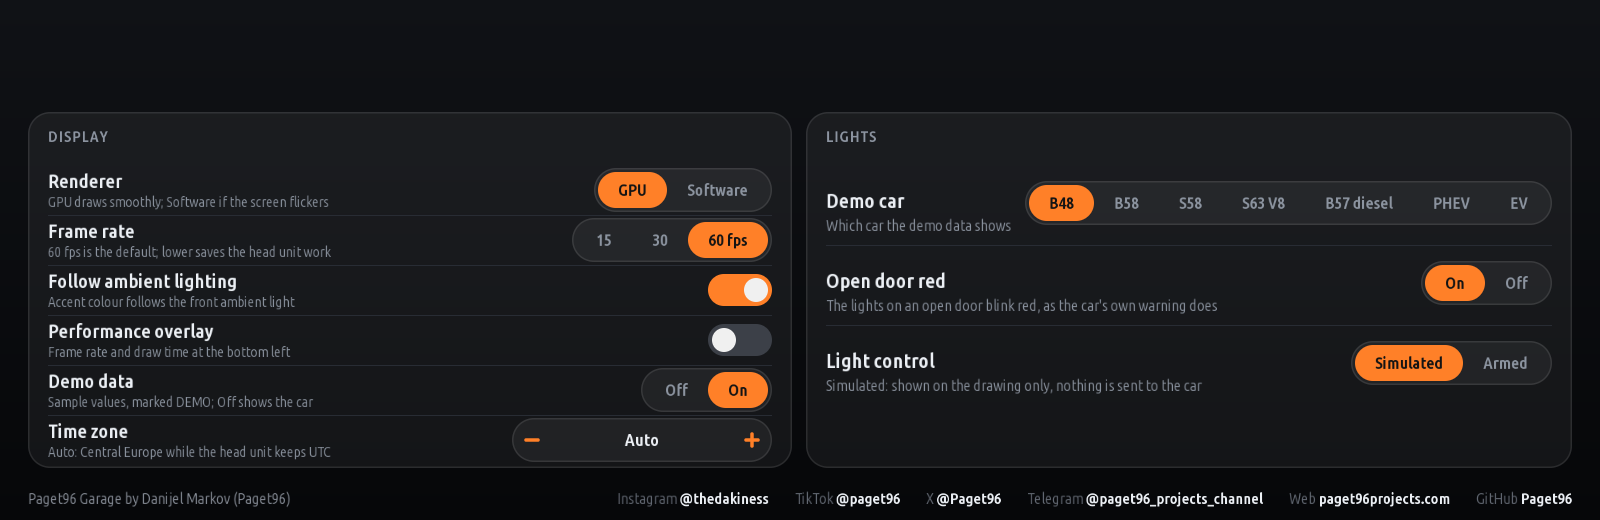
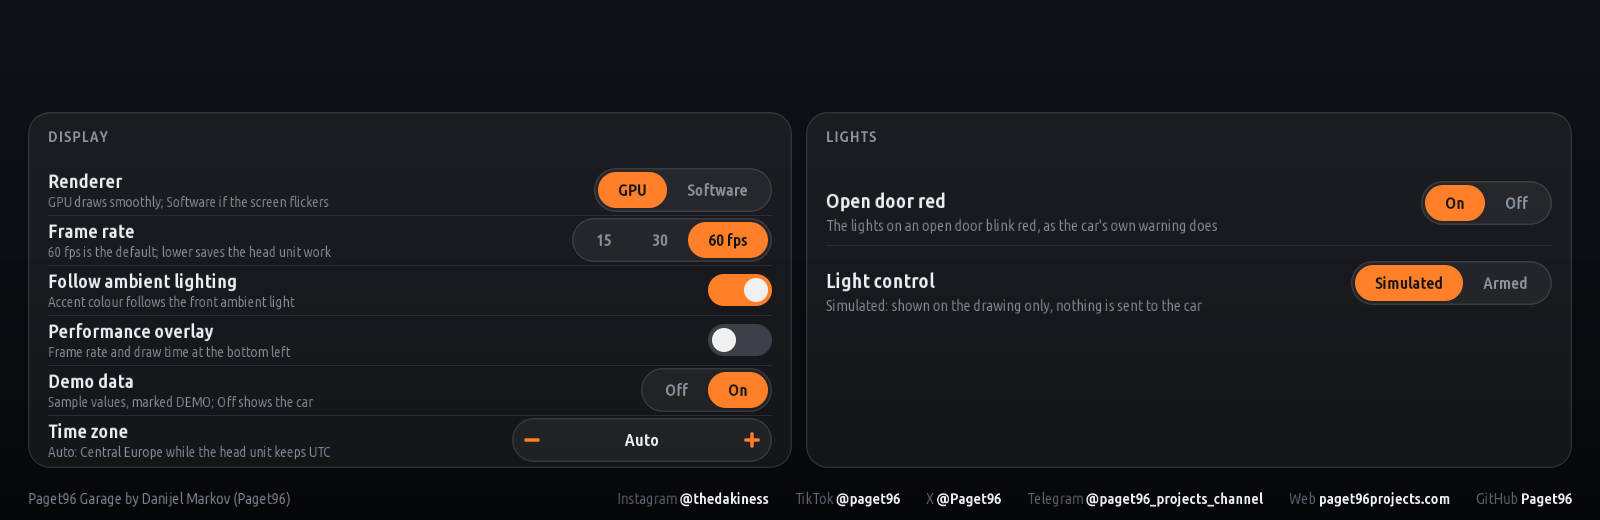
Lights 0.4.2: no demo engine in Settings
The demo car choice picks an engine for the engine apps' demo data; the
lights have nothing to do with the engine, so Lights no longer shows it.

diff --git a/apps/p96_lights/pages.js b/apps/p96_lights/pages.js
@@ -344,7 +344,7 @@ function draw(cv, v, st, t, act) {
     } else if (st.page === 'settings' && st.report && st.report.active()) {
         UI.reportPage(cv, st.report, t, { title: TITLE, onHelp: () => { st.report.close(); act.help(); } });
     } else if (st.page === 'settings') {
-        UI.settingsPage(cv, (st.demo ? [E.DEMO_ROW] : []).concat(APP_ROWS), st.settings, act.set, { title: TITLE, appLabel: 'Lights', onBack: act.back, onHelp: act.help,
+        UI.settingsPage(cv, APP_ROWS, st.settings, act.set, { title: TITLE, appLabel: 'Lights', onBack: act.back, onHelp: act.help,
             onReport: st.report ? () => st.report.open() : null });
     } else {
         head(cv, st, act);
@@ -354,6 +354,6 @@ function draw(cv, v, st, t, act) {
 }
 
 const DEFAULTS = {};
-UI.DISPLAY_SETTINGS.concat(APP_ROWS, [E.DEMO_ROW]).forEach((r) => { DEFAULTS[r.key] = r.default; });
+UI.DISPLAY_SETTINGS.concat(APP_ROWS).forEach((r) => { DEFAULTS[r.key] = r.default; });
 
 module.exports = { viewBox, MAX_PITCH, MAX_ROLL, regionOf, regionsOf, REGIONS, draw, TABS, TOPICS, APP_ROWS, PAGES, DEFAULTS, COLOURS, TITLE, carLamps, INFO, OUTSIDE };
